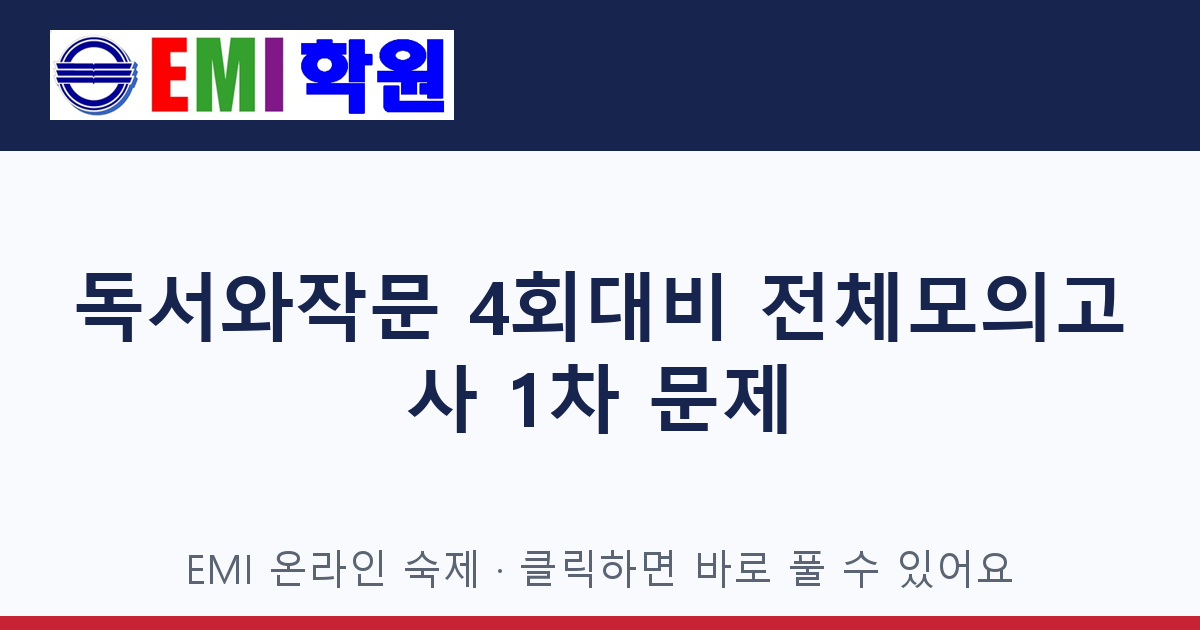
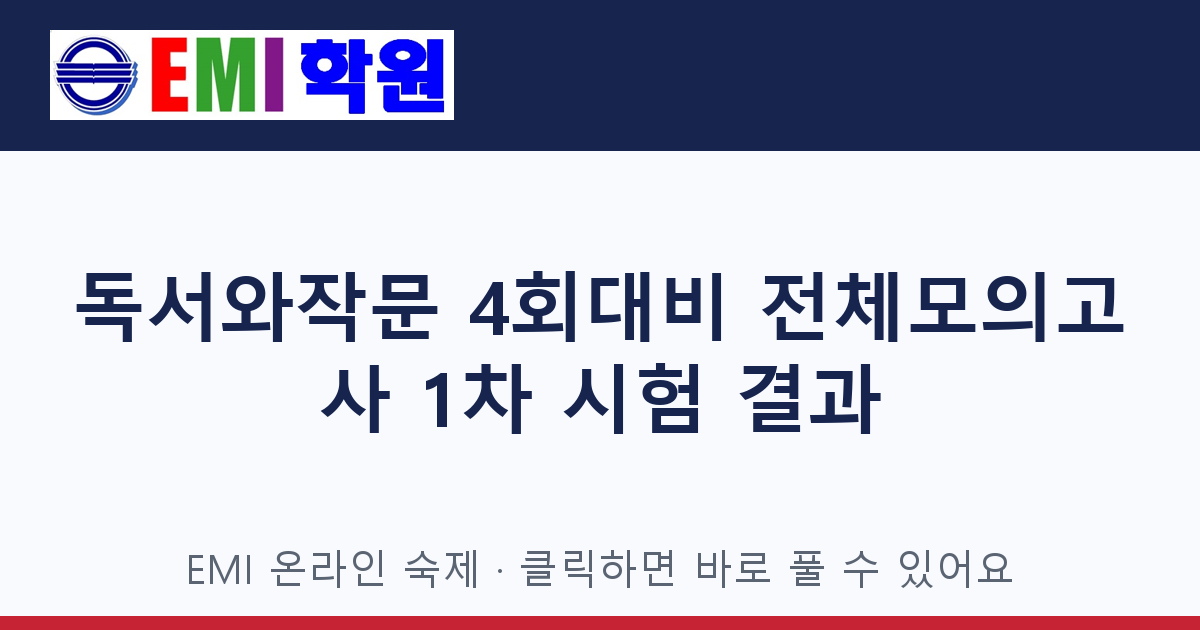
cards: mo4r1

Changed region(s): [[0.2467, 0.573, 0.74, 0.6937]]

diff --git a/mo4r1.html b/mo4r1.html
@@ -1,20 +1,20 @@
 <!doctype html><html lang="ko"><head><meta charset="utf-8">
 <meta name="viewport" content="width=device-width, initial-scale=1">
-<title>독서와작문 4회대비 전체모의고사 1차 숙제 (30문항)</title>
+<title>독서와작문 4회대비 전체모의고사 1차 시험 결과 (답 입력·채점·해설)</title>
 <meta name="description" content="EMI 온라인 숙제 · 클릭하면 바로 풀 수 있어요 (제출 결과는 선생님에게 전송됩니다)">
 <meta property="og:type" content="website">
-<meta property="og:title" content="독서와작문 4회대비 전체모의고사 1차 숙제 (30문항)">
+<meta property="og:title" content="독서와작문 4회대비 전체모의고사 1차 시험 결과 (답 입력·채점·해설)">
 <meta property="og:description" content="EMI 온라인 숙제 · 클릭하면 바로 풀 수 있어요 (제출 결과는 선생님에게 전송됩니다)">
 <meta property="og:image" content="https://yanga1052-del.github.io/emi-hw-preview/img/mo4r1.png">
 <meta property="og:url" content="https://yanga1052-del.github.io/emi-hw-preview/mo4r1.html">
 <meta name="twitter:card" content="summary_large_image">
-<meta name="twitter:title" content="독서와작문 4회대비 전체모의고사 1차 숙제 (30문항)">
+<meta name="twitter:title" content="독서와작문 4회대비 전체모의고사 1차 시험 결과 (답 입력·채점·해설)">
 <meta name="twitter:description" content="EMI 온라인 숙제 · 클릭하면 바로 풀 수 있어요 (제출 결과는 선생님에게 전송됩니다)">
 <meta name="twitter:image" content="https://yanga1052-del.github.io/emi-hw-preview/img/mo4r1.png">
 <meta http-equiv="refresh" content="0; url=https://script.google.com/macros/s/AKfycbyF3ateTjzvvQgbUPQ1zHatpe2qTKi0NUpeD05WZu_OVzvtxLwxgMTxlddT3Mv3tvPU/exec?hw=mo4r1">
 <style>body{font-family:'Malgun Gothic',sans-serif;background:#f6f8fb;color:#1a2432;display:flex;min-height:100vh;align-items:center;justify-content:center;margin:0}
 .card{background:#fff;border-radius:16px;box-shadow:0 8px 30px rgba(20,30,70,.12);padding:40px 44px;text-align:center;max-width:460px}
 h1{color:#16244e;font-size:22px;margin:.2em 0 .6em} p{color:#5a6472} a{display:inline-block;margin-top:18px;background:#16244e;color:#fff;text-decoration:none;padding:13px 26px;border-radius:10px;font-weight:bold}</style>
-</head><body><div class="card"><h1>독서와작문 4회대비 전체모의고사 1차 숙제 (30문항)</h1><p>잠시 후 숙제 페이지로 이동합니다.<br>이동하지 않으면 아래 버튼을 눌러 주세요.</p>
+</head><body><div class="card"><h1>독서와작문 4회대비 전체모의고사 1차 시험 결과 (답 입력·채점·해설)</h1><p>잠시 후 숙제 페이지로 이동합니다.<br>이동하지 않으면 아래 버튼을 눌러 주세요.</p>
 <a href="https://script.google.com/macros/s/AKfycbyF3ateTjzvvQgbUPQ1zHatpe2qTKi0NUpeD05WZu_OVzvtxLwxgMTxlddT3Mv3tvPU/exec?hw=mo4r1">숙제 풀러 가기 →</a></div>
 <script>location.replace("https://script.google.com/macros/s/AKfycbyF3ateTjzvvQgbUPQ1zHatpe2qTKi0NUpeD05WZu_OVzvtxLwxgMTxlddT3Mv3tvPU/exec?hw=mo4r1");</script></body></html>

diff --git a/index.html b/index.html
@@ -89,6 +89,6 @@
 <li><a href="tong5.html">통화량·지급 준비 제도 5회 숙제</a></li>
 <li><a href="robot4.html">로봇, 마음 그리고 우리 4회 숙제 (변형 1~10번)</a></li>
 <li><a href="robot5.html">로봇, 마음 그리고 우리 5회 숙제 (변형 1~10번)</a></li>
-<li><a href="mo4r1.html">독서와작문 4회대비 전체모의고사 1차 숙제 (30문항)</a></li>
+<li><a href="mo4r1.html">독서와작문 4회대비 전체모의고사 1차 시험 결과 (답 입력·채점·해설)</a></li>
 <li><a href="sched-makeup.html">EMI 보충수업 가능 시간 조사</a></li>
 </ul>
